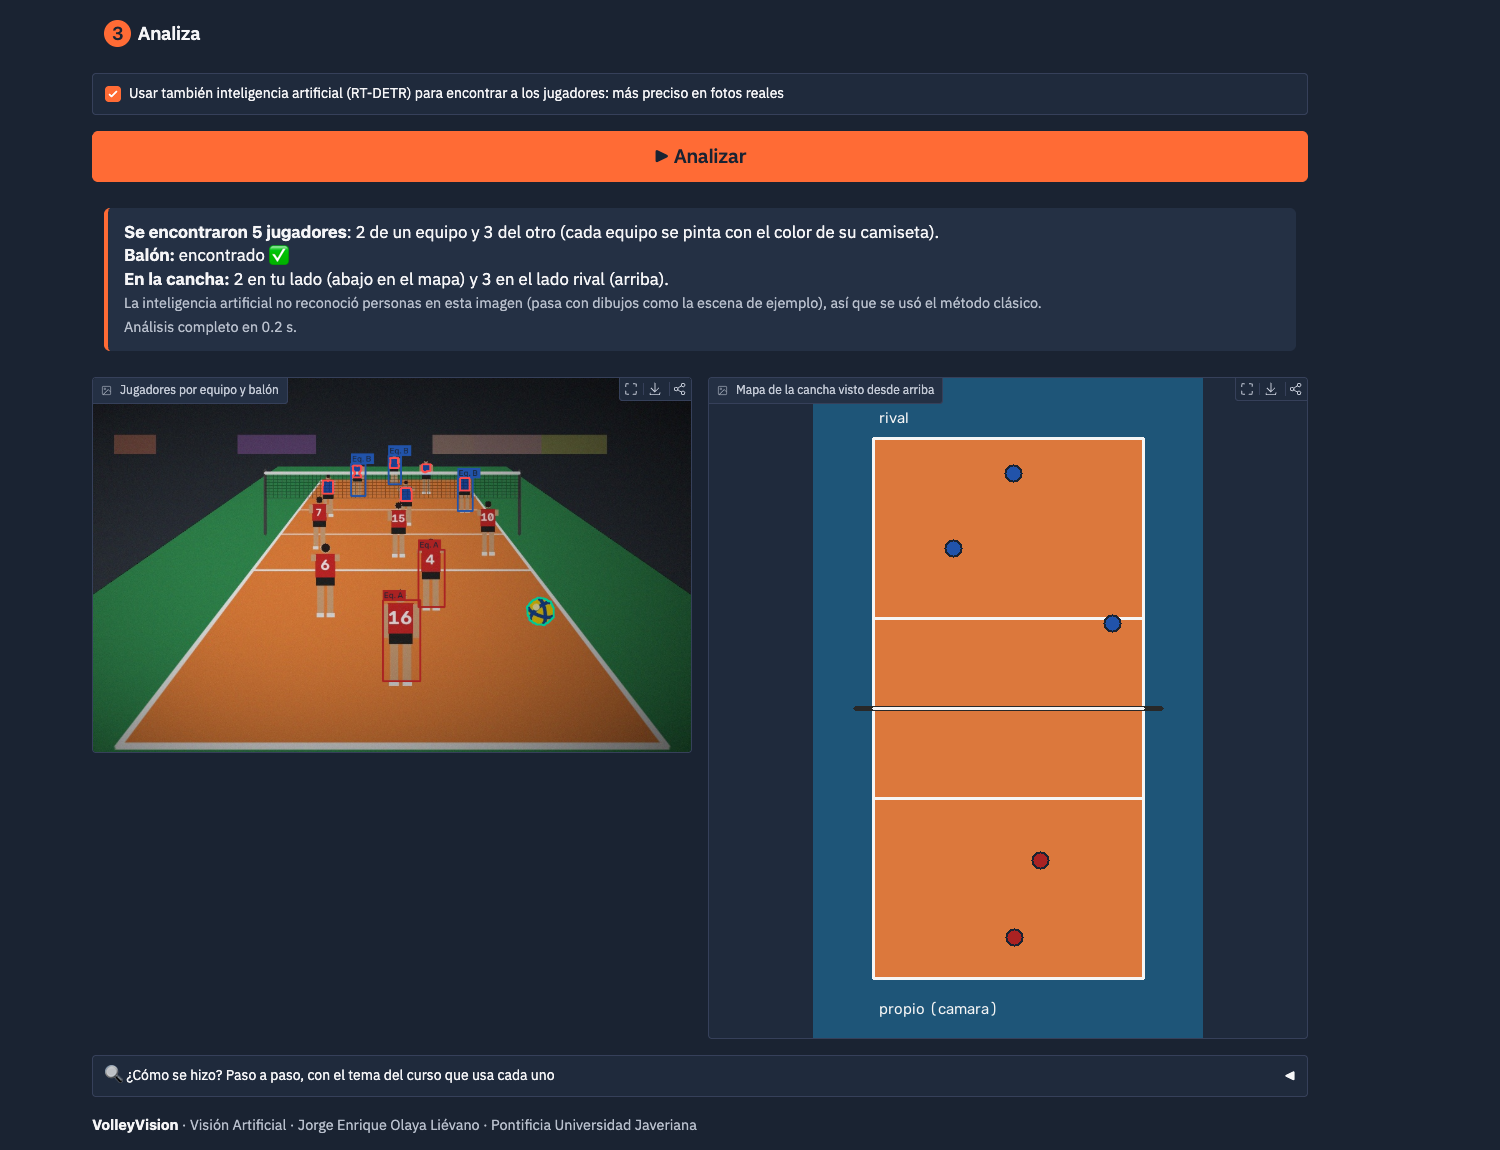
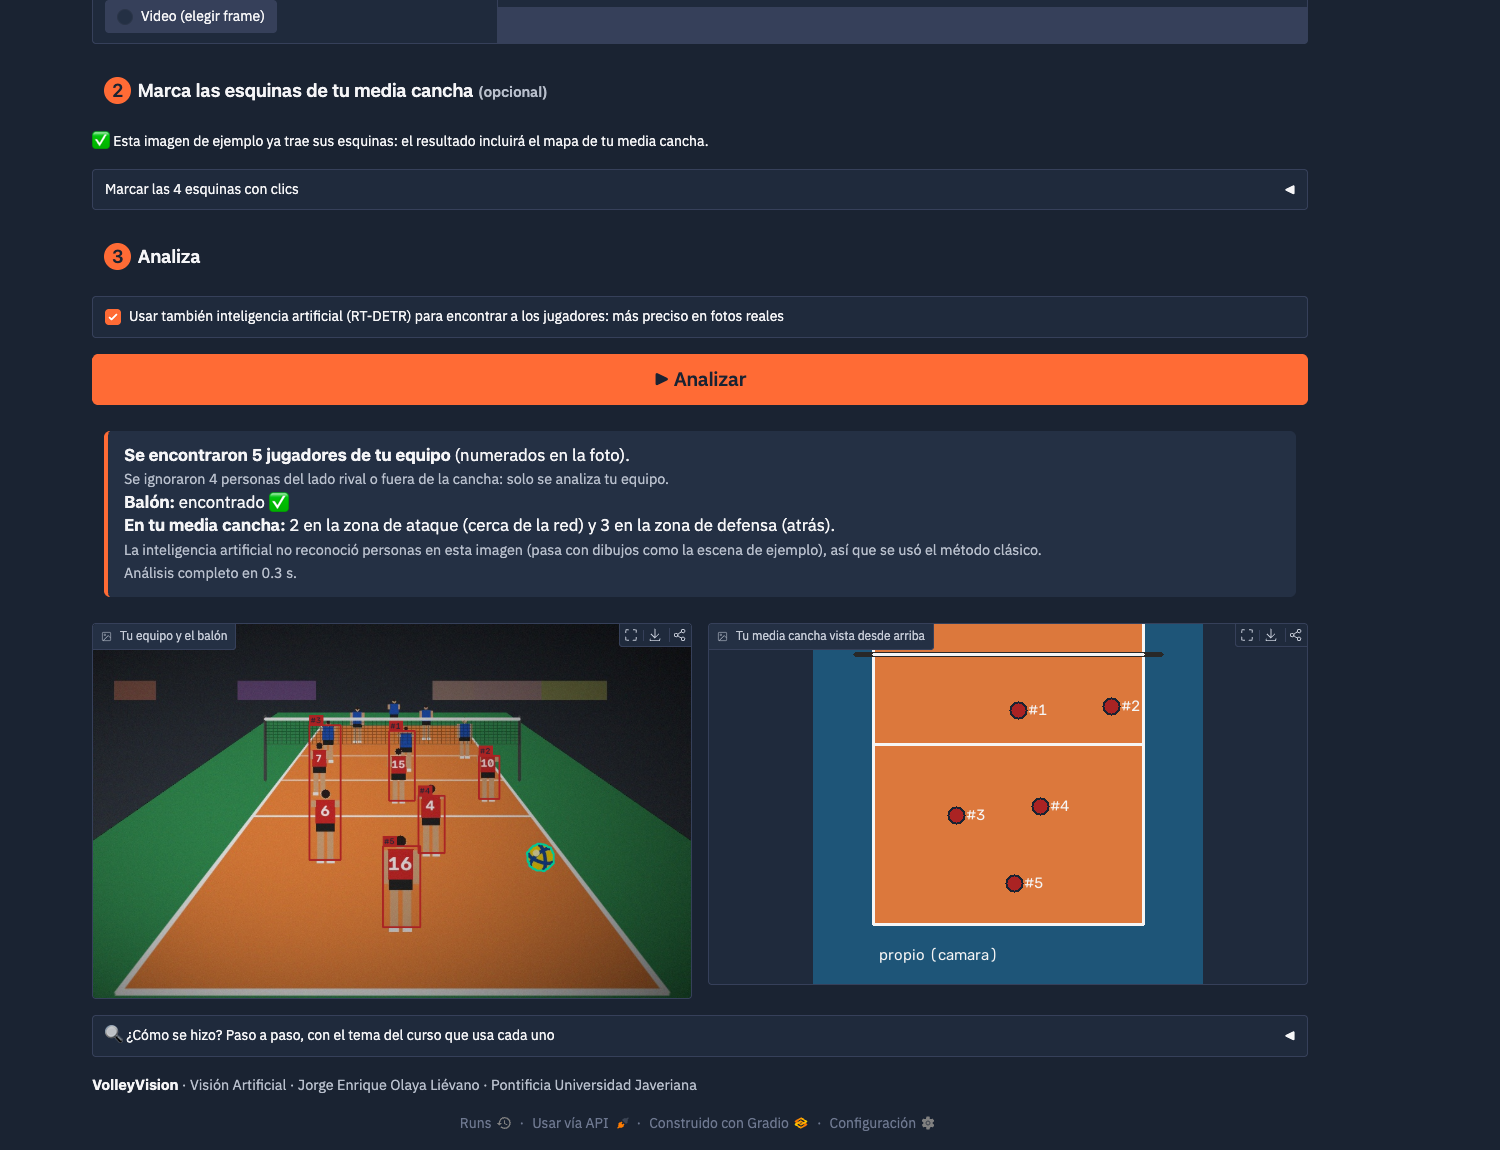
docs: describir el análisis solo del equipo propio y actualizar capturas

diff --git a/README.md b/README.md
@@ -22,7 +22,8 @@ short_description: Pipeline de visión por computador para voleibol
 VolleyVision analiza fotos y video de un partido de voleibol con un **pipeline de visión por computador**.
 La cámara se ubica **detrás de la línea de fondo del equipo propio** (vista trasera), de modo que se
 ve al equipo propio de espaldas, con el número de la camiseta visible, y al rival de frente al otro lado
-de la red. Cada tema del curso es una etapa del pipeline: calibración de la cámara, filtros, histogramas,
+de la red. **Solo se analiza el equipo propio**: desde atrás el rival queda lejos, pequeño y tapado por
+la red, así que se descarta. Cada tema del curso es una etapa del pipeline: calibración de la cámara, filtros, histogramas,
 umbralización, morfología matemática, segmentación y caracterización. Al final se comparan las técnicas
 clásicas con **modelos transformer** de Hugging Face (RT-DETR, DETR, SegFormer y SAM).
 
@@ -55,7 +56,7 @@ ZeroGPU); las demás, de la app local con el mismo código.
 
 | Analizar partido (modo guiado) | Calibración y homografía |
 |---|---|
-| ![Analizar partido: resultado en lenguaje sencillo y mapa de la cancha](docs/capturas/analizar.png) | ![Homografía de la media cancha y vista cenital](docs/capturas/calibracion.png) |
+| ![Analizar partido: resultado en lenguaje sencillo, tu equipo numerado y el mapa de tu media cancha](docs/capturas/analizar.png) | ![Homografía de la media cancha y vista cenital](docs/capturas/calibracion.png) |
 | **Transformers (clásico vs. RT-DETR vs. DETR)** | **Pipeline completo (mapa cenital)** |
 | ![Comparación clásico vs. transformer](docs/capturas/transformers.png) | ![Pipeline: paso 7, mapa cenital](docs/capturas/pipeline.png) |
 
@@ -97,7 +98,7 @@ sabe de visión artificial. Tiene tres secciones:
 
 | Sección | Para qué sirve |
 |---|---|
-| 🏐 **Analizar partido** | Modo guiado en 3 pasos: elegir la imagen → marcar las 4 esquinas de la media cancha (opcional) → **Analizar**. El resultado sale en lenguaje sencillo (jugadores por equipo, balón y en qué lado de la cancha está cada uno) junto con la foto anotada y el mapa visto desde arriba. Un desplegable *¿Cómo se hizo?* muestra las 7 etapas y el tema del curso que usa cada una. |
+| 🏐 **Analizar partido** | Modo guiado en 3 pasos: elegir la imagen → marcar las 4 esquinas de la media cancha (opcional) → **Analizar**. El resultado sale en lenguaje sencillo (cuántos jugadores de tu equipo hay, si está el balón y cuántos están en la zona de ataque o de defensa) junto con la foto anotada y el mapa de tu media cancha visto desde arriba. El rival se ignora. Un desplegable *¿Cómo se hizo?* muestra las 7 etapas y el tema del curso que usa cada una. |
 | 📚 **Temas del curso** | Una pestaña por tema (1 · Calibración … 9 · Pipeline). Cada una empieza con un recuadro **"En pocas palabras"**, deja a la vista solo los controles principales, guarda el resto en **⚙ Opciones avanzadas** y tiene la teoría con fórmulas en **"¿Qué está pasando?"**. |
 | ℹ **Acerca del proyecto** | Autor, recorrido, pipeline y arquitectura. |
 
@@ -143,9 +144,9 @@ Se usa un flujo tipo **Git Flow simplificado**:
 
 | Rama | Propósito |
 |---|---|
-| `main` | Versión estable y entregable. Solo recibe merges desde `develop` y se etiqueta en cada versión (`v1.0.0`, `v1.1.0`, `v2.0.0`, `v2.0.1`, `v2.1.0`). |
+| `main` | Versión estable y entregable. Solo recibe merges desde `develop` y se etiqueta en cada versión (`v1.0.0`, `v1.1.0`, `v2.0.0`, `v2.0.1`, `v2.1.0`, `v2.2.0`). |
 | `develop` | Rama de integración: aquí se juntan los módulos terminados y probados. |
-| `feature/<tema>` | Una rama por módulo del curso: `feature/calibracion`, `feature/filtros`, `feature/histogramas`, `feature/umbralizacion`, `feature/morfologia`, `feature/segmentacion`, `feature/caracterizacion`, `feature/transformers`, `feature/ui` (y `feature/docs` para la documentación). Los cambios posteriores siguen el mismo flujo: `feature/camara-trasera` cambió la cámara a la vista trasera (`v1.1.0`) y `feature/gradio-zerogpu` pasó la interfaz a Gradio con ZeroGPU (`v2.0.0`); `feature/ui-sencilla` agregó el modo guiado para no expertos (`v2.1.0`). |
+| `feature/<tema>` | Una rama por módulo del curso: `feature/calibracion`, `feature/filtros`, `feature/histogramas`, `feature/umbralizacion`, `feature/morfologia`, `feature/segmentacion`, `feature/caracterizacion`, `feature/transformers`, `feature/ui` (y `feature/docs` para la documentación). Los cambios posteriores siguen el mismo flujo: `feature/camara-trasera` cambió la cámara a la vista trasera (`v1.1.0`) y `feature/gradio-zerogpu` pasó la interfaz a Gradio con ZeroGPU (`v2.0.0`); `feature/ui-sencilla` agregó el modo guiado para no expertos (`v2.1.0`) y `feature/solo-mi-equipo` hizo que solo se analice el equipo propio (`v2.2.0`). |
 
 Reglas:
 
@@ -262,6 +263,15 @@ gitGraph
     merge feature/ui-sencilla
     checkout main
     merge develop tag: "v2.1.0"
+    checkout develop
+    branch feature/solo-mi-equipo
+    checkout feature/solo-mi-equipo
+    commit id: "feat: analizar solo el equipo propio"
+    commit id: "test: equipo propio"
+    checkout develop
+    merge feature/solo-mi-equipo
+    checkout main
+    merge develop tag: "v2.2.0"
 ```
 
 Para ver el historial real: `git log --oneline --graph --all`.
@@ -317,7 +327,7 @@ flowchart LR
     D --> E["4 · Otsu / HSV<br/>+ apertura y cierre<br/><i>umbralizacion, morfologia</i>"]
     E --> F1["5a · Segmentación clásica<br/>k-means, contornos, watershed"]
     E --> F2["5b · Segmentación transformer<br/>RT-DETR / DETR, SegFormer"]
-    F1 --> G["6 · Caracterización<br/>descriptores, ¿es balón?,<br/>equipos por histograma"]
+    F1 --> G["6 · Caracterización<br/>descriptores, ¿es balón?,<br/>solo tu equipo"]
     F2 --> G
     G --> H["7 · Mapa cenital<br/>homografía de la cancha"]
 ```
@@ -341,7 +351,7 @@ VolleyVision/
 │   └── utils/                # io.py, visualizacion.py, sinteticos.py
 ├── data/samples/             # cancha y video sintéticos, tablero (descargadas/ se ignora)
 ├── scripts/                  # generar_sinteticos.py, download_samples.py
-├── tests/                    # pytest (100 pruebas)
+├── tests/                    # pytest (103 pruebas)
 ├── docs/                     # arquitectura, guion del video, capturas
 ├── app.py                    # punto de entrada (local y Hugging Face Spaces)
 ├── requirements.txt  ├── pytest.ini  ├── LICENSE  └── README.md
@@ -355,11 +365,11 @@ VolleyVision/
 |---|---|---|
 | `calibracion` | Calibración de Zhang con tablero de ajedrez (K, distorsión, error de reproyección), corrección de distorsión y homografía de la cancha desde la **cámara trasera**: con las 4 esquinas de la media cancha propia (9 × 9 m) se obtiene la homografía de todo el piso y la vista cenital de la cancha de 9 × 18 m. Modelo pinhole explicado en los docstrings. Incluye DLT propia comparada con OpenCV. | `calibrar_camara`, `corregir_distorsion`, `homografia_cancha`, `homografia_dlt`, `vista_cenital` |
 | `filtros` | Promedio, gaussiano, mediana y bilateral; Sobel, Laplaciano y Canny; convolución manual (NumPy) comparada con `cv2.filter2D`; realce de las líneas de la cancha (bilateral + Canny + Hough). | `suavizar`, `sobel`, `canny`, `convolucion_manual`, `resaltar_lineas_cancha` |
-| `histogramas` | Histogramas RGB/HSV, ecualización global (y manual con la CDF), CLAHE para la iluminación del coliseo y comparación H-S de uniformes con `cv2.compareHist` para asignar equipos. | `calcular_histograma`, `ecualizar_manual`, `aplicar_clahe`, `asignar_equipos` |
+| `histogramas` | Histogramas RGB/HSV, ecualización global (y manual con la CDF), CLAHE para la iluminación del coliseo y comparación H-S de uniformes con `cv2.compareHist` para separar tu equipo del rival. | `calcular_histograma`, `ecualizar_manual`, `aplicar_clahe`, `asignar_equipos` |
 | `umbralizacion` | Umbral global, **Otsu implementado a mano** con la curva σ²_B(t), Otsu de OpenCV, umbral adaptativo (media y gaussiano) y rangos HSV para el balón y la cancha. | `otsu_manual`, `umbral_adaptativo`, `umbral_hsv` |
 | `morfologia` | Erosión, dilatación, apertura, cierre, gradiente, top-hat y black-hat con elemento estructurante configurable; versiones manuales (mín/máx); limpieza de las máscaras del balón y los jugadores. | `elemento_estructurante`, `aplicar`, `erosion_manual`, `limpiar_mascara` |
 | `segmentacion` | Contornos, watershed con transformada de distancia, k-means en color y detección clásica de jugadores (modelo de fondo + Otsu + cierre vertical). Métricas IoU. | `encontrar_contornos`, `watershed_distancia`, `kmeans_color`, `segmentar_jugadores_clasico` |
-| `caracterizacion` | Área, perímetro, centroide, caja, circularidad, excentricidad, solidez y momentos de Hu; clasificador por reglas "¿es balón?"; proyección del punto de apoyo de los jugadores a la vista cenital. | `describir_region`, `detectar_balon_clasico`, `proyectar_jugadores` |
+| `caracterizacion` | Área, perímetro, centroide, caja, circularidad, excentricidad, solidez y momentos de Hu; clasificador por reglas "¿es balón?"; proyección del punto de apoyo de los jugadores a la vista cenital; selección del **equipo propio** (los que pisan tu media cancha o, sin esquinas, el grupo de camisetas más cercano a la cámara). | `describir_region`, `detectar_balon_clasico`, `proyectar_jugadores`, `seleccionar_equipo_propio` |
 | `transformers_models` | RT-DETR / DETR (personas y `sports ball`), SegFormer (segmentación semántica), SlimSAM / SAM (segmentación por punto o caja) y la comparación clásico vs. transformer con tiempos. | `detectar_objetos`, `segmentar_semantica`, `segmentar_con_sam`, `comparar_metodos` |
 | `pipeline` | Encadena las 7 etapas y devuelve el resultado de cada una. | `ejecutar_pipeline` |
 
@@ -385,7 +395,7 @@ compara los tiempos en tu máquina.
 ## Pruebas
 
 ```bash
-pytest                 # 97 pruebas rápidas (sin descargar modelos)
+pytest                 # 100 pruebas rápidas (sin descargar modelos)
 pytest -m slow         # 3 pruebas que descargan y ejecutan los modelos de Hugging Face
 ```
 
@@ -399,11 +409,13 @@ Qué se verifica, entre otras cosas:
 - Watershed separa objetos que se tocan; las excentricidades coinciden con scikit-image; Hu es
   invariante a rotación y escala.
 - La homografía de la media cancha ubica al equipo propio con error < 10 cm y al rival con error < 40 cm.
-- El pipeline clásico encuentra ≥ 7 de los 12 jugadores sintéticos (la vista trasera tiene oclusiones),
-  el balón y los dos equipos.
+- Con la homografía, la selección del equipo propio coincide exactamente con la verdad de la escena
+  sintética; sin ella, elige el grupo de camisetas más cercano a la cámara.
+- El pipeline clásico se queda solo con el equipo propio (todos en la media cancha propia), descarta al
+  rival y encuentra el balón.
 - La app de Gradio se construye y cada callback de la UI se ejecuta sin excepciones con la escena
-  sintética (sin levantar el servidor); el modo guiado da un resumen con jugadores, balón y lado de la
-  cancha, y sin esquinas no dibuja el mapa.
+  sintética (sin levantar el servidor); el modo guiado da un resumen con los jugadores de tu equipo,
+  el balón y su zona (ataque o defensa), y sin esquinas no dibuja el mapa.
 
 ---
 
@@ -428,20 +440,21 @@ Qué se verifica, entre otras cosas:
   público con jugadores.
 - **Segmentación clásica de jugadores**: supone que los colores dominantes son el fondo (piso, zona
   libre, gradas). Falla con público muy colorido, jugadores superpuestos o colores parecidos al piso.
-- **Oclusiones de la cámara trasera**: la primera línea propia tapa en parte a los rivales que están en
-  la red. El método clásico une esas siluetas (encuentra 7–8 de 12 jugadores en las escenas sintéticas)
-  y la caja unida puede quedar asignada al equipo equivocado. Una cámara elevada (tribuna o trípode alto)
-  reduce el problema.
+- **Solo el equipo propio**: el rival no se analiza; desde atrás queda lejos y tapado por la red y por la
+  primera línea propia. Con las esquinas, son propios los que pisan la media cancha propia (con 0,5 m de
+  margen en la red); sin ellas, el grupo de camisetas con los pies más abajo en la imagen.
+- **Oclusiones de la cámara trasera**: el método clásico puede unir a dos jugadores propios que se tapan
+  (encuentra 5–6 de los 6 propios en las escenas sintéticas). Una cámara elevada (tribuna o trípode
+  alto) reduce el problema.
 - **Balón**: los rangos HSV están pensados para balones amarillo/azul; otros colores requieren ajustar
   los sliders.
 - **Homografía**: supone el piso plano y las 4 esquinas de la media cancha propia visibles (las dos de la
-  línea central bajo la red y las dos de la línea de fondo propia). Los rivales se ubican con menos
-  precisión porque están más lejos (cada píxel abarca más metros). Solo los puntos del piso se proyectan
+  línea central bajo la red y las dos de la línea de fondo propia). Solo los puntos del piso se proyectan
   bien: un balón en el aire no se puede ubicar en el mapa cenital con una sola cámara.
 - **Calibración**: el ejemplo usa un tablero sintético. Para una cámara real hay que fotografiar un
   tablero impreso con esa misma cámara y resolución.
-- **Equipos**: se asume que hay dos uniformes de colores distintos; el líbero y los árbitros pueden
-  quedar mal asignados.
+- **Sin esquinas**: el equipo propio se reconoce por el color de la camiseta, así que se asume que los dos
+  uniformes son de colores distintos; el líbero y los árbitros pueden quedar mal asignados.
 - **Video**: se procesa frame por frame, sin seguimiento (*tracking*) entre frames.
 - **Recursos**: la primera ejecución descarga unos 850 MB de pesos si se usan todos los modelos; SAM
   ViT-B es lento en CPU (por eso SlimSAM va por defecto).

diff --git a/docs/guion_video.md b/docs/guion_video.md
@@ -22,13 +22,13 @@
 > "Hola, soy Jorge Enrique Olaya Liévano y este es mi proyecto final de Visión Artificial:
 > **VolleyVision**. Es una aplicación que analiza fotos y video de voleibol con un pipeline de visión
 > por computador, con la cámara detrás de la línea de fondo de mi equipo: se nos ve de espaldas, con
-> el número de la camiseta, y al rival de frente. Cada tema del curso es una etapa: calibración,
+> el número de la camiseta. Solo se analiza mi equipo: el rival queda lejos y tapado por la red. Cada tema del curso es una etapa: calibración,
 > filtros, histogramas, umbralización,
 > morfología, segmentación y caracterización. Al final comparo las técnicas clásicas con modelos
 > transformer de Hugging Face, que uso solo en inferencia con pesos públicos, sin entrenar nada."
 
-Pulsar **▶ Analizar** con la imagen de ejemplo y señalar el resumen, la foto con los equipos y el
-mapa de la cancha:
+Pulsar **▶ Analizar** con la imagen de ejemplo y señalar el resumen, la foto con mi equipo numerado y el
+mapa de mi media cancha:
 
 > "Para alguien que no sabe del tema basta con esto: elegir una imagen y pulsar Analizar. Abajo, en
 > *¿Cómo se hizo?*, se ven las 7 etapas y el tema del curso que usa cada una. Cada tema se puede
@@ -49,8 +49,8 @@ Abrir **ℹ Acerca del proyecto** y señalar la tabla del recorrido y el diag
 - Ejecutar `git log --oneline --graph --all`:
   > "Trabajé con `main` estable, `develop` de integración y una rama `feature` por módulo, con
   > Conventional Commits y merges `--no-ff`, por eso cada rama queda visible en el historial. La
-  > versión entregada tiene la etiqueta v2.0.0."
-- Ejecutar `pytest -q` y mostrar que pasan las 95 pruebas.
+  > versión entregada tiene la etiqueta v2.2.0."
+- Ejecutar `pytest -q` y mostrar que pasan las 100 pruebas.
 
 ## 1:45 – 2:45 · Calibración
 
@@ -91,7 +91,7 @@ Abrir **ℹ Acerca del proyecto** y señalar la tabla del recorrido y el diag
 
 1. *Ecualización y CLAHE*: comparar las tres imágenes y la métrica "desviación del brillo entre bloques".
    > "CLAHE corrige la iluminación desigual del coliseo sin amplificar el ruido."
-2. *Uniformes*: mostrar la matriz de Bhattacharyya y los equipos A/B.
+2. *Uniformes*: mostrar la matriz de Bhattacharyya: así se distingue mi equipo del rival cuando no hay esquinas.
 
 ## 4:10 – 4:50 · Umbralización
 
@@ -137,9 +137,10 @@ propios, solidez, Hu) y `es_balon`.
 1. *Descriptores*: seleccionar una región y mostrar centroide, caja y envolvente convexa.
 2. *¿Es balón?*: el balón sale en verde y las camisetas azules en rojo con su motivo; bajar la
    circularidad mínima para mostrar cómo cambian los aciertos.
-3. *Proyección a la cancha*: mapa cenital con mi equipo abajo y el rival arriba.
-   > "Uso el punto de los pies porque la homografía solo vale en el piso. Desde atrás, mi primera línea
-   > tapa a los rivales de la red: el método clásico une esas siluetas, y es una limitación de esta toma."
+3. *Proyección a la cancha*: mi equipo en naranja y numerado, el rival en gris (descartado); el mapa
+   muestra solo mi media cancha.
+   > "Uso el punto de los pies porque la homografía solo vale en el piso. Son de mi equipo los que pisan
+   > mi media cancha; al rival no lo analizo porque desde atrás queda lejos y tapado por la red."
 
 ## 7:20 – 8:30 · Transformers: clásico vs. transformer
 

diff --git a/docs/arquitectura.md b/docs/arquitectura.md
@@ -45,7 +45,8 @@ sequenceDiagram
     P->>T: detectar_objetos(img, RT-DETR/DETR), segmentar_semantica(img)
     P->>K: describir_region, detectar_balon_clasico
     P->>H: asignar_equipos(histogramas H-S de los torsos)
-    P->>C: homografia_cancha(esquinas) → proyectar_jugadores
+    P->>C: homografia_cancha(esquinas)
+    P->>K: seleccionar_equipo_propio(cajas, equipos, hom) → solo tu equipo
     P-->>U: list[Paso] (imágenes intermedias, datos, tiempo)
 ```
 
@@ -63,7 +64,8 @@ sequenceDiagram
 | Estado de la sesión en un `gr.State` | Las esquinas marcadas (por escena) y la calibración se comparten entre pestañas sin variables globales, así cada visitante tiene las suyas. |
 | Selección automática de dispositivo (`cuda` → `mps` → `cpu`) y sincronización antes de medir | Los tiempos en GPU son asíncronos; sin sincronizar se medirían mal. En MPS se convierten las entradas float64 a float32. |
 | Punto de apoyo (centro inferior de la caja) para el mapa cenital | La homografía solo es válida para puntos del plano del piso. |
-| Homografía a partir de la **media cancha propia** (cámara trasera) | Desde detrás de la línea de fondo se ven bien las 4 esquinas de la media cancha propia; la homografía resultante vale para todo el plano del piso, así que también ubica al rival (con menos precisión). Coordenadas: x de 0 a 9 m (izquierda → derecha), y de 0 m (fondo rival) a 18 m (fondo propio). |
+| **Solo el equipo propio** (`seleccionar_equipo_propio`) | Desde atrás el rival queda lejos, pequeño y tapado por la red: analizarlo daría resultados poco fiables. Con las esquinas, son propios los que pisan la media cancha propia (y ≥ 9 m); sin ellas, el grupo de camisetas más cercano a la cámara. El mapa muestra solo la media cancha propia. |
+| Homografía a partir de la **media cancha propia** (cámara trasera) | Desde detrás de la línea de fondo se ven bien las 4 esquinas de la media cancha propia; la homografía resultante vale para todo el plano del piso, y permite decidir quién está en la media cancha propia. Coordenadas: x de 0 a 9 m (izquierda → derecha), y de 0 m (fondo rival) a 18 m (fondo propio). |
 | Páginas con prefijo `pN_` (`p8_transformers.py`) | Ordenan las pestañas y evitan que un módulo llamado `transformers.py` se confunda con la librería `transformers`. |
 
 ## 4. Pruebas
@@ -76,6 +78,6 @@ sequenceDiagram
 | `tests/test_umbralizacion.py` | Otsu manual vs. OpenCV, HSV del balón, rango circular, adaptativo vs. global |
 | `tests/test_morfologia.py` | Erosión/dilatación manuales, dualidad, idempotencia, limpieza de la máscara del balón |
 | `tests/test_segmentacion.py` | Contornos, watershed, k-means, jugadores clásicos, IoU |
-| `tests/test_caracterizacion.py` | Descriptores vs. scikit-image, invariancia de Hu, clasificación del balón, proyección |
+| `tests/test_caracterizacion.py` | Descriptores vs. scikit-image, invariancia de Hu, clasificación del balón, proyección, selección del equipo propio |
 | `tests/test_transformers.py` | Pipeline completo, con calibración y sin esquinas; modelos reales (`-m slow`) |
 | `tests/test_ui.py` | La app de Gradio se construye y cada callback de la UI corre sin excepciones (calibración, esquinas, pipeline); modelos reales con `-m slow` |

diff --git a/docs/capturas/README.md b/docs/capturas/README.md
@@ -4,7 +4,7 @@ Capturas de la app (PNG, 1500 px de ancho; la de transformers del Space desplega
 
 | Archivo | Qué capturar |
 |---|---|
-| `analizar.png` | Sección *Analizar partido* después de pulsar «Analizar»: resumen, foto anotada y mapa. |
+| `analizar.png` | Sección *Analizar partido* después de pulsar «Analizar»: resumen, foto con tu equipo numerado y mapa de tu media cancha. |
 | `calibracion.png` | Pestaña *Homografía de la cancha* con las 4 esquinas marcadas y la vista cenital. |
 | `transformers.png` | Pestaña *Comparación clásico vs. transformer* con las tres columnas y la gráfica de tiempos. |
-| `pipeline.png` | Pestaña *Pipeline* con el paso 7 (mapa cenital) visible. |
+| `pipeline.png` | Pestaña *Pipeline* con el paso 7 (vista cenital y mapa de tu media cancha) visible. |
